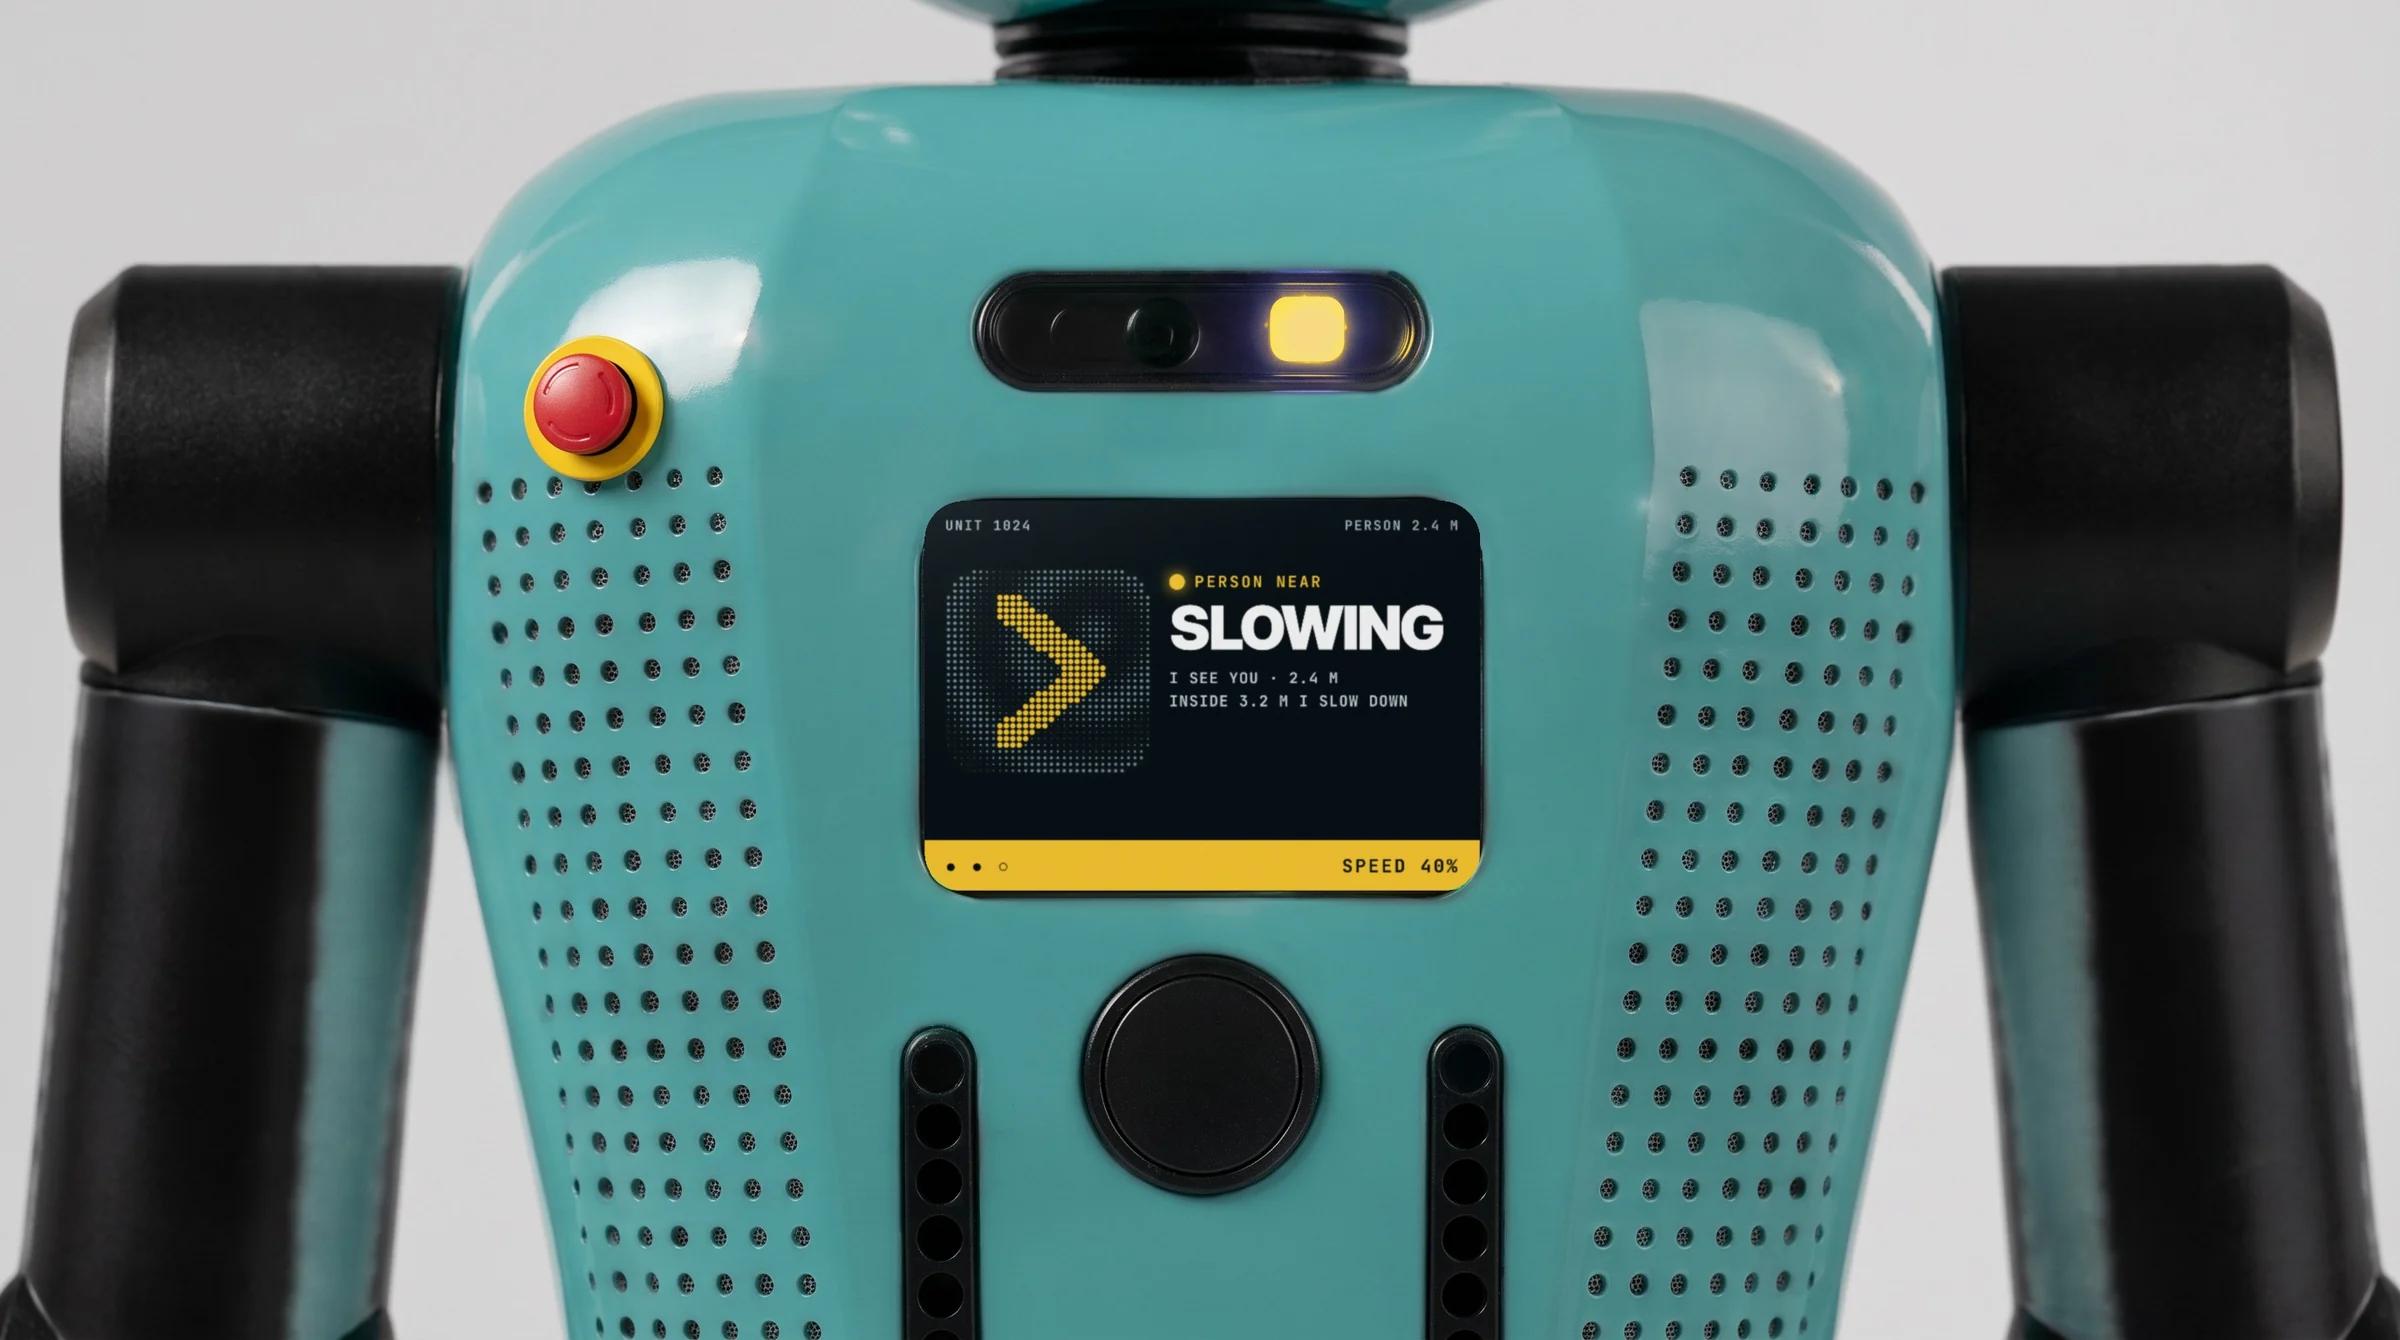
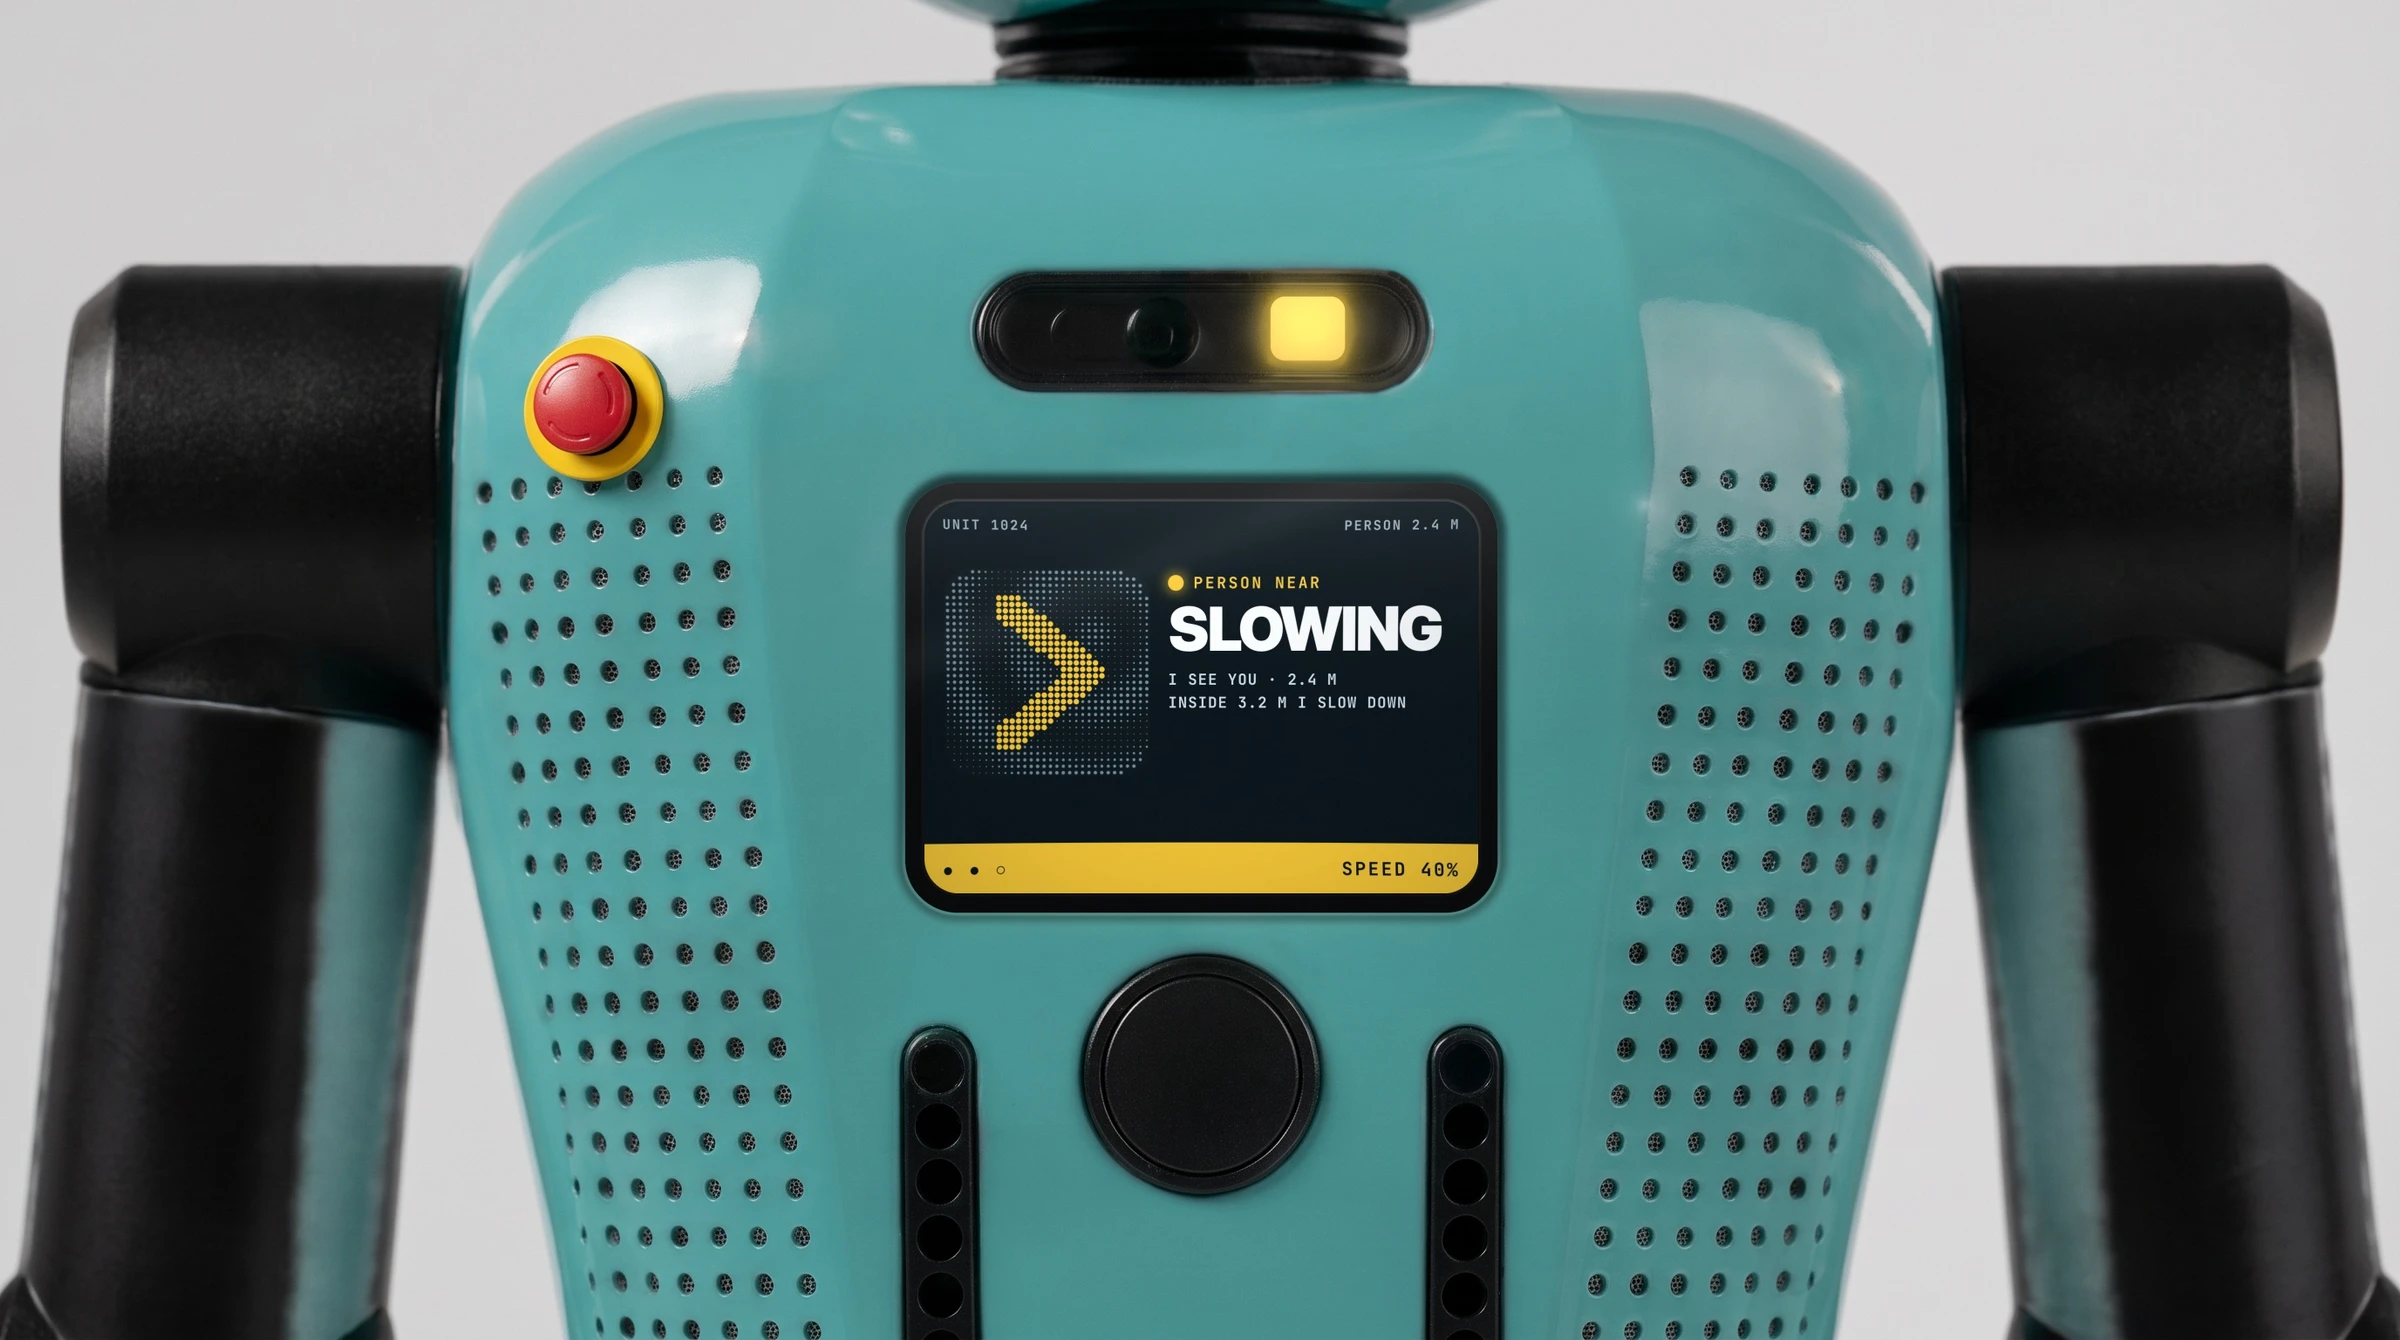
Close-ups: chest display rebuilt as a recessed bezel + cover glass that fully covers the rendered screen, clean status LED, visor content shown behind the real glass as a dot-matrix panel, decal perspective matched to the panel
Claude-Session: https://claude.ai/code/session_01TNyScwJnzqpCZzMWvbHjEJ

Changed region(s): [[0.375, 0.3366, 0.6562, 0.7037], [0.5, 0.1836, 0.5938, 0.306]]

diff --git a/robot-perforation/index.html b/robot-perforation/index.html
@@ -310,7 +310,7 @@ body{background:var(--paper);color:var(--ink)}
   <div>
    <div class="pics">
     <figure class="w"><img src="img/rp__id_4.webp" alt="Fleet sheet: twenty unit marks, each a different perforation field around the same teal chevron, with unit numbers below" width="2200" height="1375" loading="lazy"><figcaption>01 · EVERY UNIT ITS OWN MARK</figcaption></figure>
-    <figure><img src="img/rp__cu_chest_slow.webp?v=2" alt="Close-up of the robot chest display showing SLOWING, PERSON NEAR, with a yellow status light" width="2400" height="1340" loading="lazy"><figcaption>02 · ON THE MACHINE</figcaption></figure>
+    <figure><img src="img/rp__cu_chest_slow.webp?v=3" alt="Close-up of the robot chest display showing SLOWING, PERSON NEAR, with a yellow status light" width="2400" height="1340" loading="lazy"><figcaption>02 · ON THE MACHINE</figcaption></figure>
     <figure><img src="img/rp__onsite_robot.webp" alt="The robot in a warehouse aisle behind the STOP &amp; LOOK floor decal, with the ZONE B-04 sign above" width="2400" height="1340" loading="lazy"><figcaption>03 · ON THE FLOOR</figcaption></figure>
    </div>
    <div class="cta"><a class="p" href="#film">▶ Watch the 78 s film</a><a href="#identity">Try a unit number</a><a href="system/">Open the design system ↗</a><a href="UNIT-1024-Two-Pager.pdf" download>Two-page PDF ↓</a></div>
@@ -523,13 +523,13 @@ body{background:var(--paper);color:var(--ink)}
   <div><b>E-stop</b>Red with a yellow ring on the upper chest, never used as decoration.</div>
  </div>
  <div class="orb-tri">
-  <figure><img src="img/rp__cu_chest_ok_sq.webp?v=2" alt="Straight-on close-up of the robot's chest: the display shows WORKING in green with the teal unit mark and 1024, speed 100%; the status light above is green" width="1000" height="1000" loading="lazy"><figcaption><b><i style="background:#39d353"></i>Working</b><span>Nothing in the lane. Green light, speed 100%.</span></figcaption></figure>
-  <figure><img src="img/rp__cu_chest_slow_sq.webp?v=2" alt="Straight-on close-up of the chest display showing SLOWING, PERSON NEAR, I SEE YOU 2.4 M, speed 40%; the status light above is yellow" width="1000" height="1000" loading="lazy"><figcaption><b><i style="background:#f2c230"></i>Slowing</b><span>Person inside 3.2 m. Yellow light, speed 40%, and it says how far you are.</span></figcaption></figure>
-  <figure><img src="img/rp__cu_chest_wait_sq.webp?v=2" alt="Straight-on close-up of the chest display showing WAITING, STOPPED FOR YOU, AFTER YOU 1.2 M, speed 0%; the status light above is red" width="1000" height="1000" loading="lazy"><figcaption><b><i style="background:#e23b2e"></i>Waiting</b><span>Person inside 1.6 m. Red light, it stops and lets you go first. Speed 0%.</span></figcaption></figure>
+  <figure><img src="img/rp__cu_chest_ok_sq.webp?v=3" alt="Straight-on close-up of the robot's chest: the display shows WORKING in green with the teal unit mark and 1024, speed 100%; the status light above is green" width="1000" height="1000" loading="lazy"><figcaption><b><i style="background:#39d353"></i>Working</b><span>Nothing in the lane. Green light, speed 100%.</span></figcaption></figure>
+  <figure><img src="img/rp__cu_chest_slow_sq.webp?v=3" alt="Straight-on close-up of the chest display showing SLOWING, PERSON NEAR, I SEE YOU 2.4 M, speed 40%; the status light above is yellow" width="1000" height="1000" loading="lazy"><figcaption><b><i style="background:#f2c230"></i>Slowing</b><span>Person inside 3.2 m. Yellow light, speed 40%, and it says how far you are.</span></figcaption></figure>
+  <figure><img src="img/rp__cu_chest_wait_sq.webp?v=3" alt="Straight-on close-up of the chest display showing WAITING, STOPPED FOR YOU, AFTER YOU 1.2 M, speed 0%; the status light above is red" width="1000" height="1000" loading="lazy"><figcaption><b><i style="background:#e23b2e"></i>Waiting</b><span>Person inside 1.6 m. Red light, it stops and lets you go first. Speed 0%.</span></figcaption></figure>
  </div>
  <div class="orb-two">
-  <figure><img src="img/rp__cu_head.webp" alt="Close-up of the robot's head: the visor shows two yellow eyes looking toward a person and the words I SEE YOU 2.4 M; the side lights glow yellow" width="2400" height="1350" loading="lazy"><figcaption><b>Visor · I see you</b><span>When it slows, the eyes turn toward the person and the visor gives the distance. You know it has seen you.</span></figcaption></figure>
-  <figure><img src="img/rp__cu_base.webp?v=2" alt="Close-up of the tracked base: on the black front panel, the 120 by 40 mm ID decal with the teal unit mark and UNIT 1024, above the base light and sensor windows" width="2400" height="1350" loading="lazy"><figcaption><b>ID decal · on the base</b><span>The same 120 × 40 mm decal from the print kit, at knee height where people look down: the unit mark and its number.</span></figcaption></figure>
+  <figure><img src="img/rp__cu_head.webp?v=3" alt="Close-up of the robot's head: the visor shows two yellow eyes looking toward a person and the words I SEE YOU 2.4 M; the side lights glow yellow" width="2400" height="1350" loading="lazy"><figcaption><b>Visor · I see you</b><span>When it slows, the eyes turn toward the person and the visor gives the distance. You know it has seen you.</span></figcaption></figure>
+  <figure><img src="img/rp__cu_base.webp?v=3" alt="Close-up of the tracked base: on the black front panel, the 120 by 40 mm ID decal with the teal unit mark and UNIT 1024, above the base light and sensor windows" width="2400" height="1350" loading="lazy"><figcaption><b>ID decal · on the base</b><span>The same 120 × 40 mm decal from the print kit, at knee height where people look down: the unit mark and its number.</span></figcaption></figure>
  </div>
  <p class="mono" style="margin-top:14px;max-width:900px;line-height:1.6">How these were made: close-up crops of the Rhino model rendered in Vizcom (the chest straight-on, so the screen sits flat to the camera), then the real screen layouts, light states and decal artwork placed back on top, so every word and number is the actual design. Visualizations of a concept, not photos of a working robot.</p>
 </div></section>
